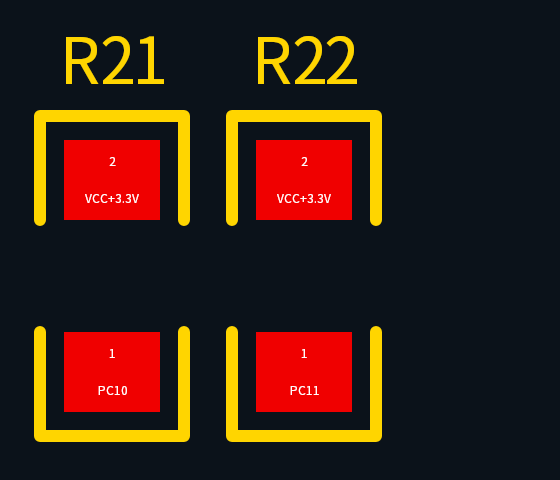
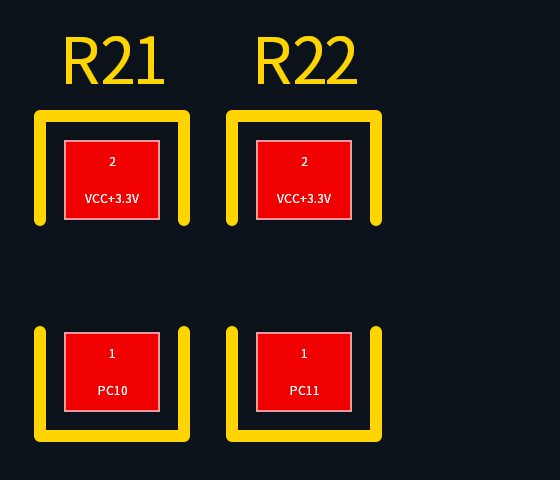
make PCB pad boundaries identifiable

diff --git a/packages/pcb-viewer/src/pictures.test.ts b/packages/pcb-viewer/src/pictures.test.ts
@@ -15,6 +15,7 @@ vi.mock("@shopify/react-native-skia", async () => {
   const { JsiSkApi } = require("@shopify/react-native-skia/lib/commonjs/skia/web/JsiSkia.js");
   return {
     Skia: JsiSkApi(kit),
+    ...require("@shopify/react-native-skia/lib/commonjs/skia/types/Canvas"),
     ...require("@shopify/react-native-skia/lib/commonjs/skia/types/Paint"),
   };
 });
@@ -305,6 +306,35 @@ describe("real CanvasKit picture recording", () => {
     expect(() =>
       buildPictures({ ...scene, batches: [{ ...scene.batches[0], path: "broken path" }] }),
     ).toThrow("无法绘制");
+  });
+  it("shows the pad boundary where a same-colored track meets it", () => {
+    const { pictures } = buildPictures({
+      ...scene,
+      batches: [
+        { ...scene.batches[0], kind: "LINE", fill: false, width: 4, path: "M2 13H14" },
+        { ...scene.batches[0], kind: "PAD", path: "M12 8H22V18H12Z M17 10V16H20V10Z" },
+      ],
+    });
+    const surface = Skia.Surface.Make(40, 30);
+    if (!surface) throw new Error("CanvasKit software surface unavailable");
+    const canvas = surface.getCanvas();
+    canvas.clear(Skia.Color("#000000"));
+    for (const { picture } of pictures) canvas.drawPicture(picture);
+    const image = surface.makeImageSnapshot();
+    const pixels = image.readPixels();
+    if (!pixels) throw new Error("CanvasKit pixels unavailable");
+    const pixel = (x: number, y: number) =>
+      Array.from(pixels.slice((y * 40 + x) * 4, (y * 40 + x) * 4 + 4));
+    expect(pixel(12, 13)[1], "The copper connection must not hide the pad edge").toBeGreaterThan(
+      20,
+    );
+    expect(pixel(14, 13)).toEqual([255, 0, 0, 255]);
+    expect(pixel(6, 13)).toEqual([255, 0, 0, 255]);
+    expect(pixel(18, 13)).toEqual([0, 0, 0, 255]);
+    expect(pixel(23, 20)).toEqual([0, 0, 0, 255]);
+    for (const { picture } of pictures) picture.dispose();
+    image.dispose();
+    surface.dispose();
   });
   it("records visible Latin and Chinese labels with the bundled typeface", () => {
     const data = Skia.Data.fromBytes(

diff --git a/packages/pcb-viewer/src/pictures.ts b/packages/pcb-viewer/src/pictures.ts
@@ -1,5 +1,6 @@
 import type { Scene, SceneLayer } from "@oshwhub/bridge";
 import {
+  ClipOp,
   PaintStyle,
   type SkFont,
   type SkImage,
@@ -70,7 +71,12 @@ export function buildPictures(scene: Scene, typeface?: SkTypeface) {
       const paints = new Map<string, SkPaint>();
       const fonts = new Map<number, SkFont>();
       const textPaint = Skia.Paint();
+      const padOutline = Skia.Paint();
       try {
+        padOutline.setAntiAlias(true);
+        padOutline.setColor(Skia.Color("#ffffff99"));
+        padOutline.setStyle(PaintStyle.Stroke);
+        padOutline.setStrokeWidth(0.5);
         for (const batch of batches) {
           const color = batch.color || layer.color;
           // Pro's copper areas are 30% transparent; pads and tracks stay opaque.
@@ -93,6 +99,13 @@ export function buildPictures(scene: Scene, typeface?: SkTypeface) {
           if (!path) throw new Error(`图层「${layer.name}」包含无法绘制的路径。`);
           try {
             canvas.drawPath(path, paint);
+            // Keep the pad's actual shape readable where same-layer copper joins it.
+            if (batch.kind === "PAD" && isCopperLayer(layer.id)) {
+              canvas.save();
+              canvas.clipPath(path, ClipOp.Intersect, true);
+              canvas.drawPath(path, padOutline);
+              canvas.restore();
+            }
           } finally {
             path.dispose();
           }
@@ -128,6 +141,7 @@ export function buildPictures(scene: Scene, typeface?: SkTypeface) {
         for (const paint of paints.values()) paint.dispose();
         for (const font of fonts.values()) font.dispose();
         textPaint.dispose();
+        padOutline.dispose();
         recorder.dispose();
       }
     }

diff --git a/docs/renderer.md b/docs/renderer.md
@@ -163,6 +163,14 @@ inventing an insulating gap. Source paths, network bindings, drawing order and
 picking stay unchanged. CanvasKit pixel tests cover same-net pad/track contact,
 clearance holes around another network, inner copper and opaque non-copper fills.
 
+Selecting the red R21 pad in the professional editor confirms **焊盘**, top
+layer, number 2, network `VCC+3.3V`, with a rectangular shape. Red is that
+editor's top-layer display color; other boards may supply a different copper
+color and pad shape. The viewer also marks each copper `PAD` path with a thin
+light inner outline so its soldering area stays identifiable where it joins a
+same-colored track or fill. The outline is clipped to the original path, keeping
+clearances and holes empty. It uses no synthetic rectangle or insulating gap.
+
 Label pictures update with the viewport independently of the highlight picture
 and raster cache, so zooming does not reparse highlighted SVG paths. The network
 panel retains location, hover highlighting, category switches, preset colors,
